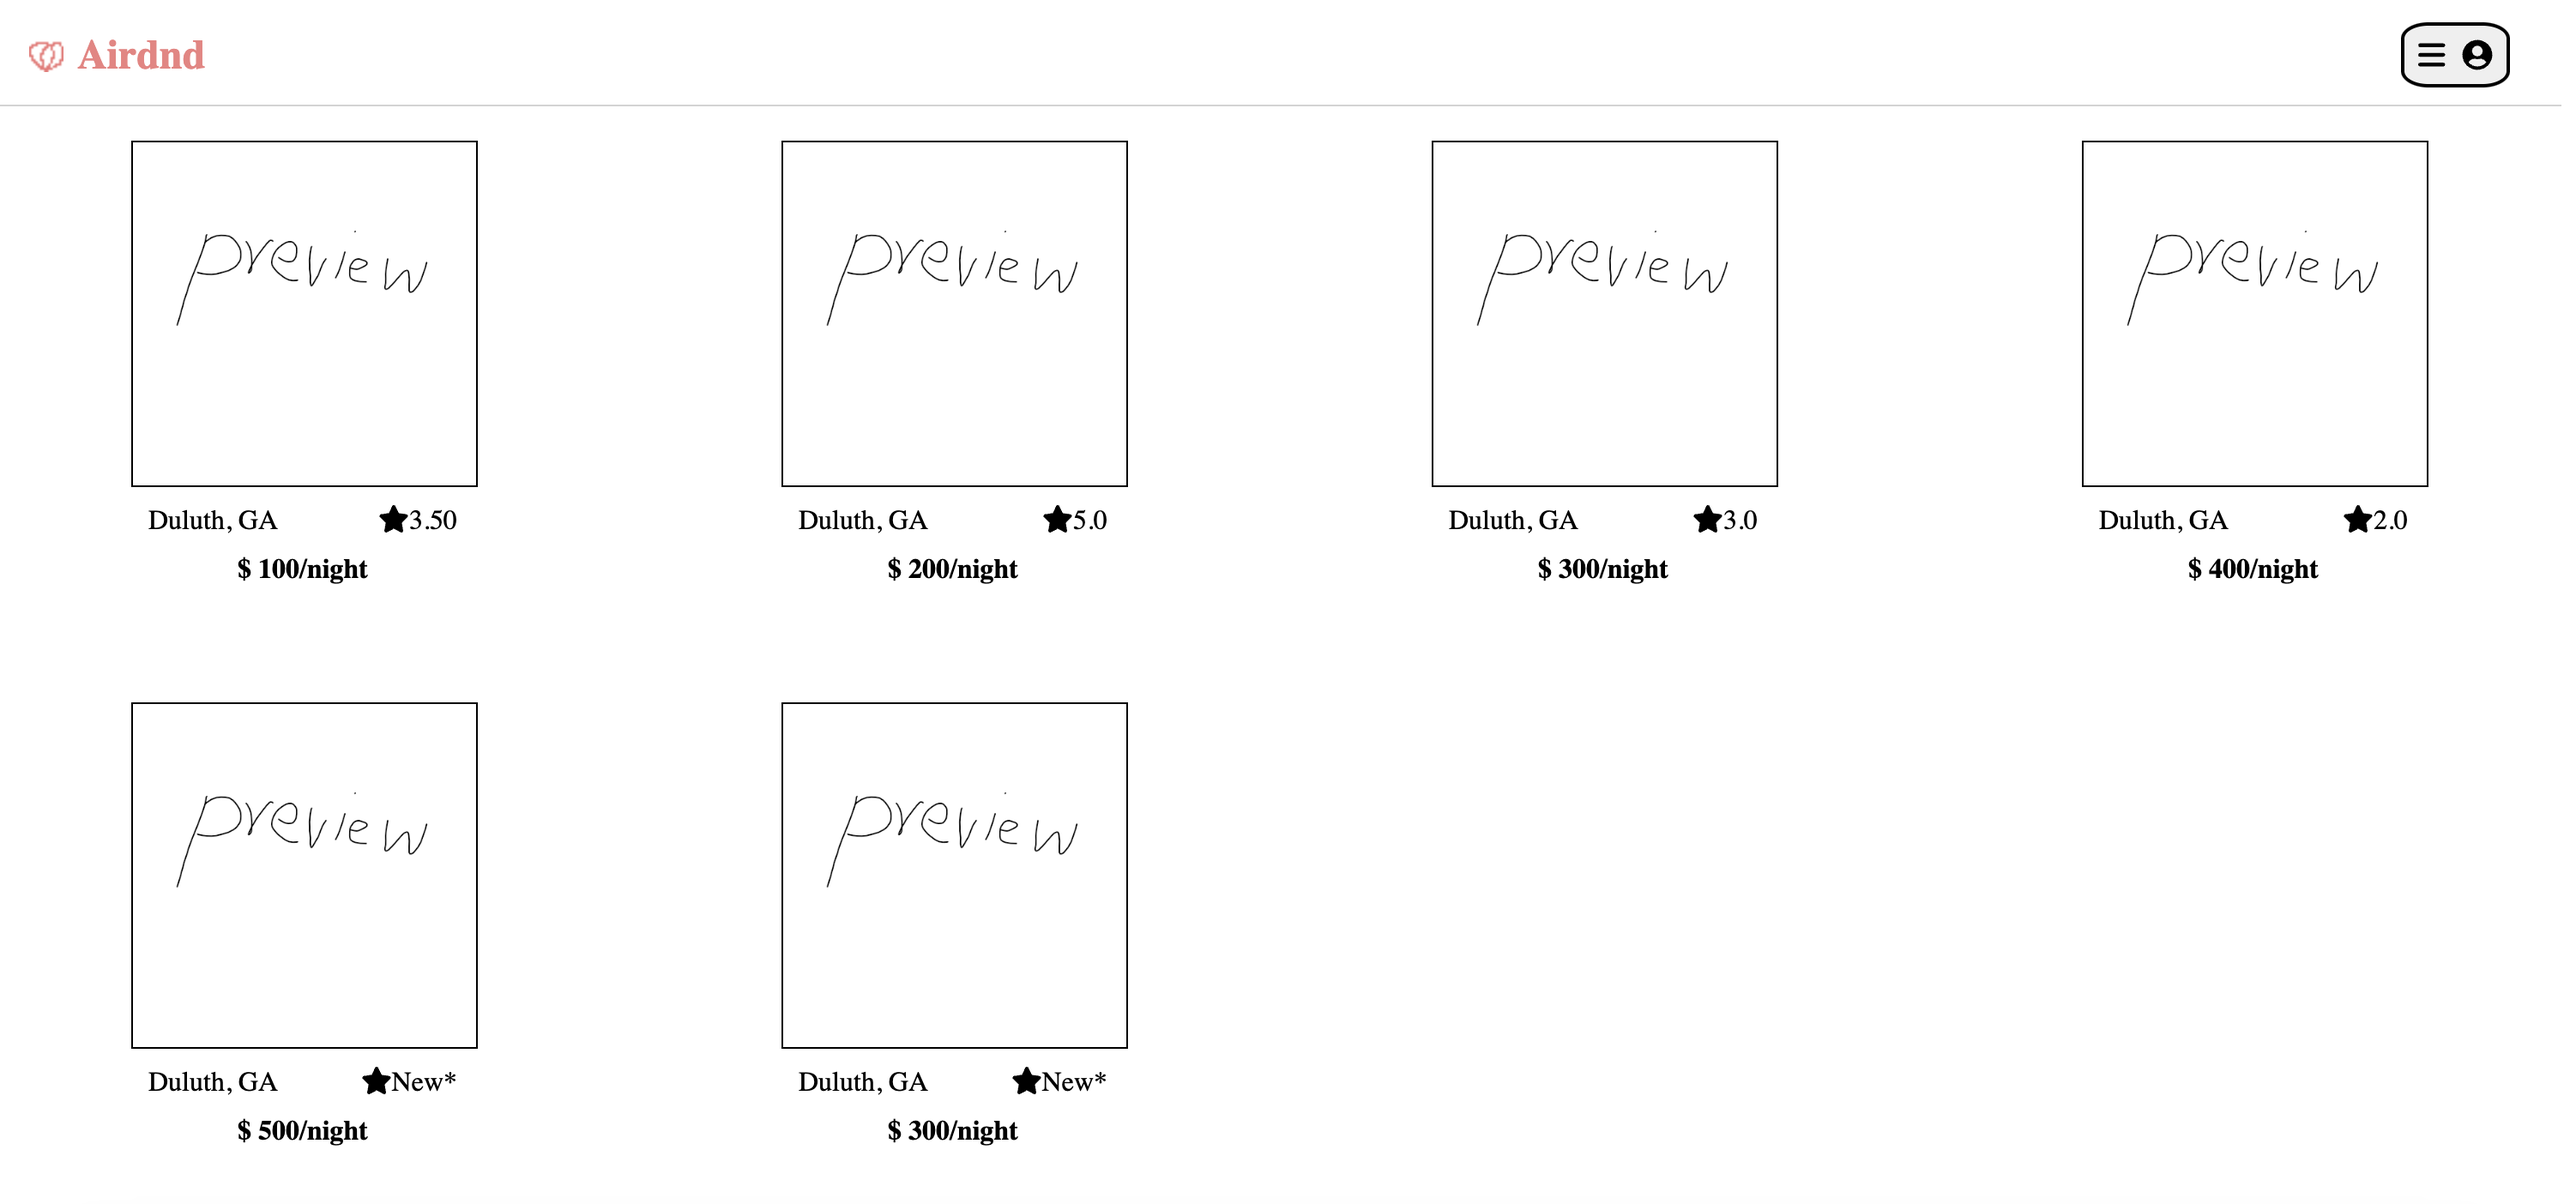
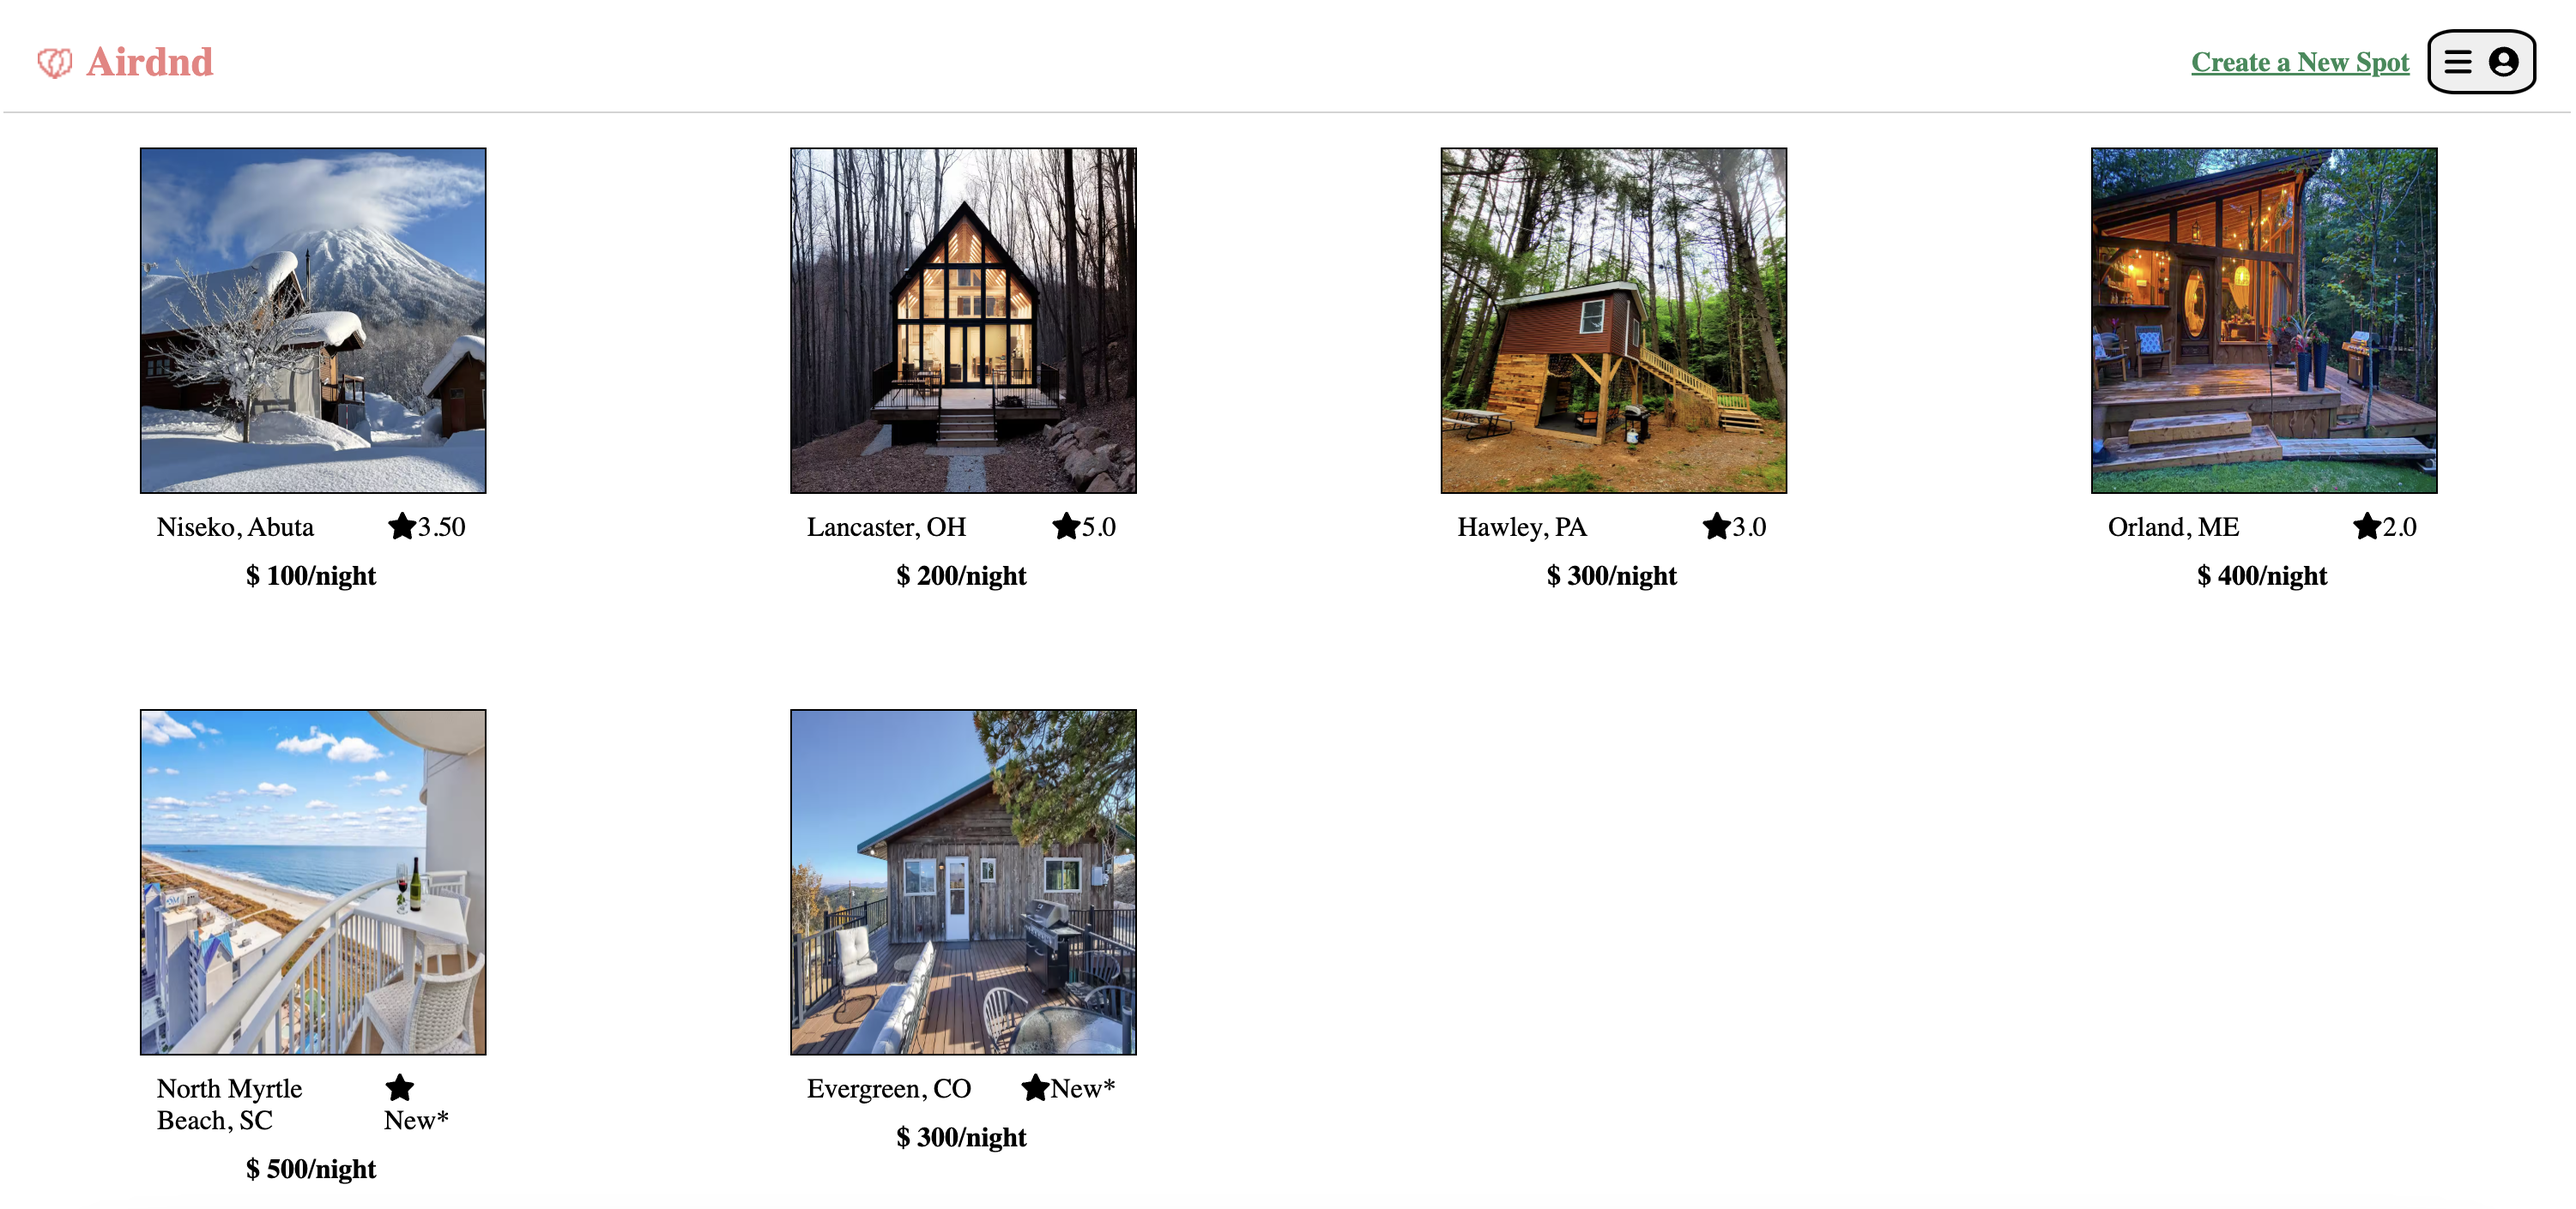
update order and project picture

diff --git a/index.html b/index.html
@@ -86,16 +86,16 @@
                 </div>
                 <div class="row">
                     <div class="col-lg-4 col-sm-6 mb-4">
-                        <!-- Portfolio item 1-->
+                        <!-- Portfolio item 3-->
                         <div class="portfolio-item">
-                            <a class="portfolio-link" data-bs-toggle="modal" href="#portfolioModal1">
+                            <a class="portfolio-link" data-bs-toggle="modal" href="#portfolioModal3">
                                 <div class="portfolio-hover">
                                     <div class="portfolio-hover-content"><i class="fas fa-plus fa-3x"></i></div>
                                 </div>
-                                <img class="img-fluid" src="assets/img/portfolio/7.png" alt="..." />
+                                <img class="img-fluid" src="assets/img/portfolio/11.png" alt="..." />
                             </a>
                             <div class="portfolio-caption">
-                                <div class="portfolio-caption-heading">Airdnd</div>
+                                <div class="portfolio-caption-heading">The Wolf of Wall Street Simulator</div>
                             </div>
                         </div>
                     </div>
@@ -114,16 +114,16 @@
                         </div>
                     </div>
                     <div class="col-lg-4 col-sm-6 mb-4">
-                        <!-- Portfolio item 3-->
+                        <!-- Portfolio item 1-->
                         <div class="portfolio-item">
-                            <a class="portfolio-link" data-bs-toggle="modal" href="#portfolioModal3">
+                            <a class="portfolio-link" data-bs-toggle="modal" href="#portfolioModal1">
                                 <div class="portfolio-hover">
                                     <div class="portfolio-hover-content"><i class="fas fa-plus fa-3x"></i></div>
                                 </div>
-                                <img class="img-fluid" src="assets/img/portfolio/11.png" alt="..." />
+                                <img class="img-fluid" src="assets/img/portfolio/7.png" alt="..." />
                             </a>
                             <div class="portfolio-caption">
-                                <div class="portfolio-caption-heading">The Wolf of Wall Street Simulator</div>
+                                <div class="portfolio-caption-heading">Airdnd</div>
                             </div>
                         </div>
                     </div>
@@ -363,10 +363,6 @@
         <script src="https://cdn.jsdelivr.net/npm/bootstrap@5.2.3/dist/js/bootstrap.bundle.min.js"></script>
         <!-- Core theme JS-->
         <script src="js/scripts.js"></script>
-        <!-- * * * * * * * * * * * * * * * * * * * * * * * * * * * * * * * * * * * * * * * *-->
-        <!-- * *                               SB Forms JS                               * *-->
-        <!-- * * Activate your form at https://startbootstrap.com/solution/contact-forms * *-->
-        <!-- * * * * * * * * * * * * * * * * * * * * * * * * * * * * * * * * * * * * * * * *-->
         <script src="https://cdn.startbootstrap.com/sb-forms-latest.js"></script>
     </body>
 </html>
